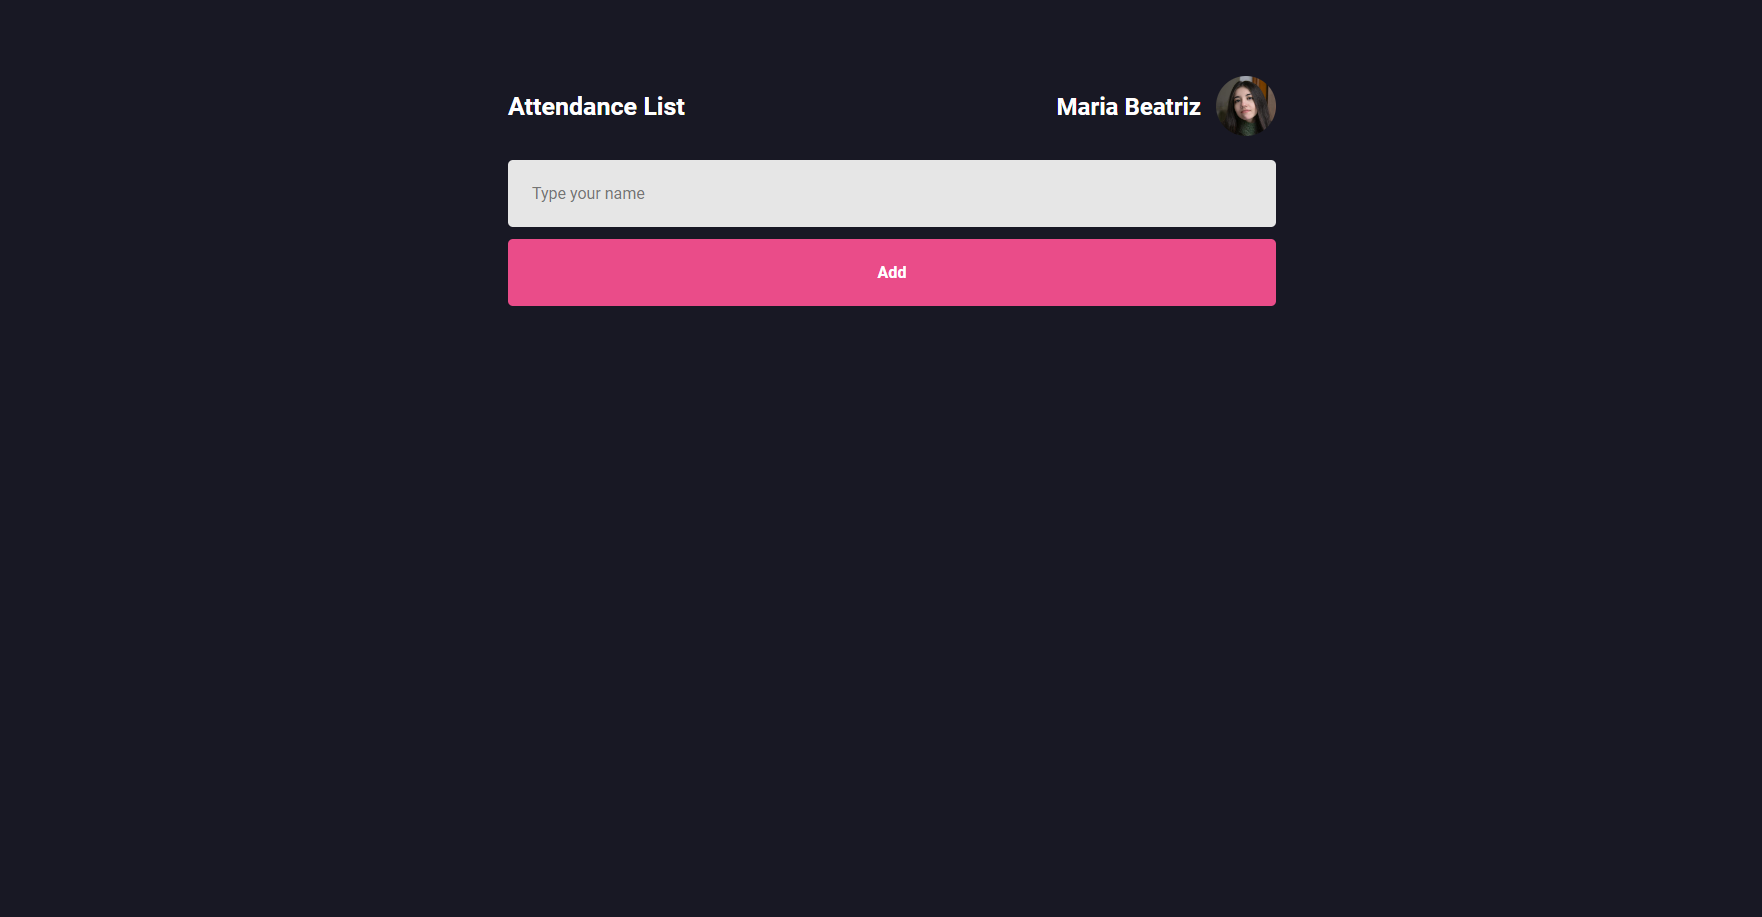
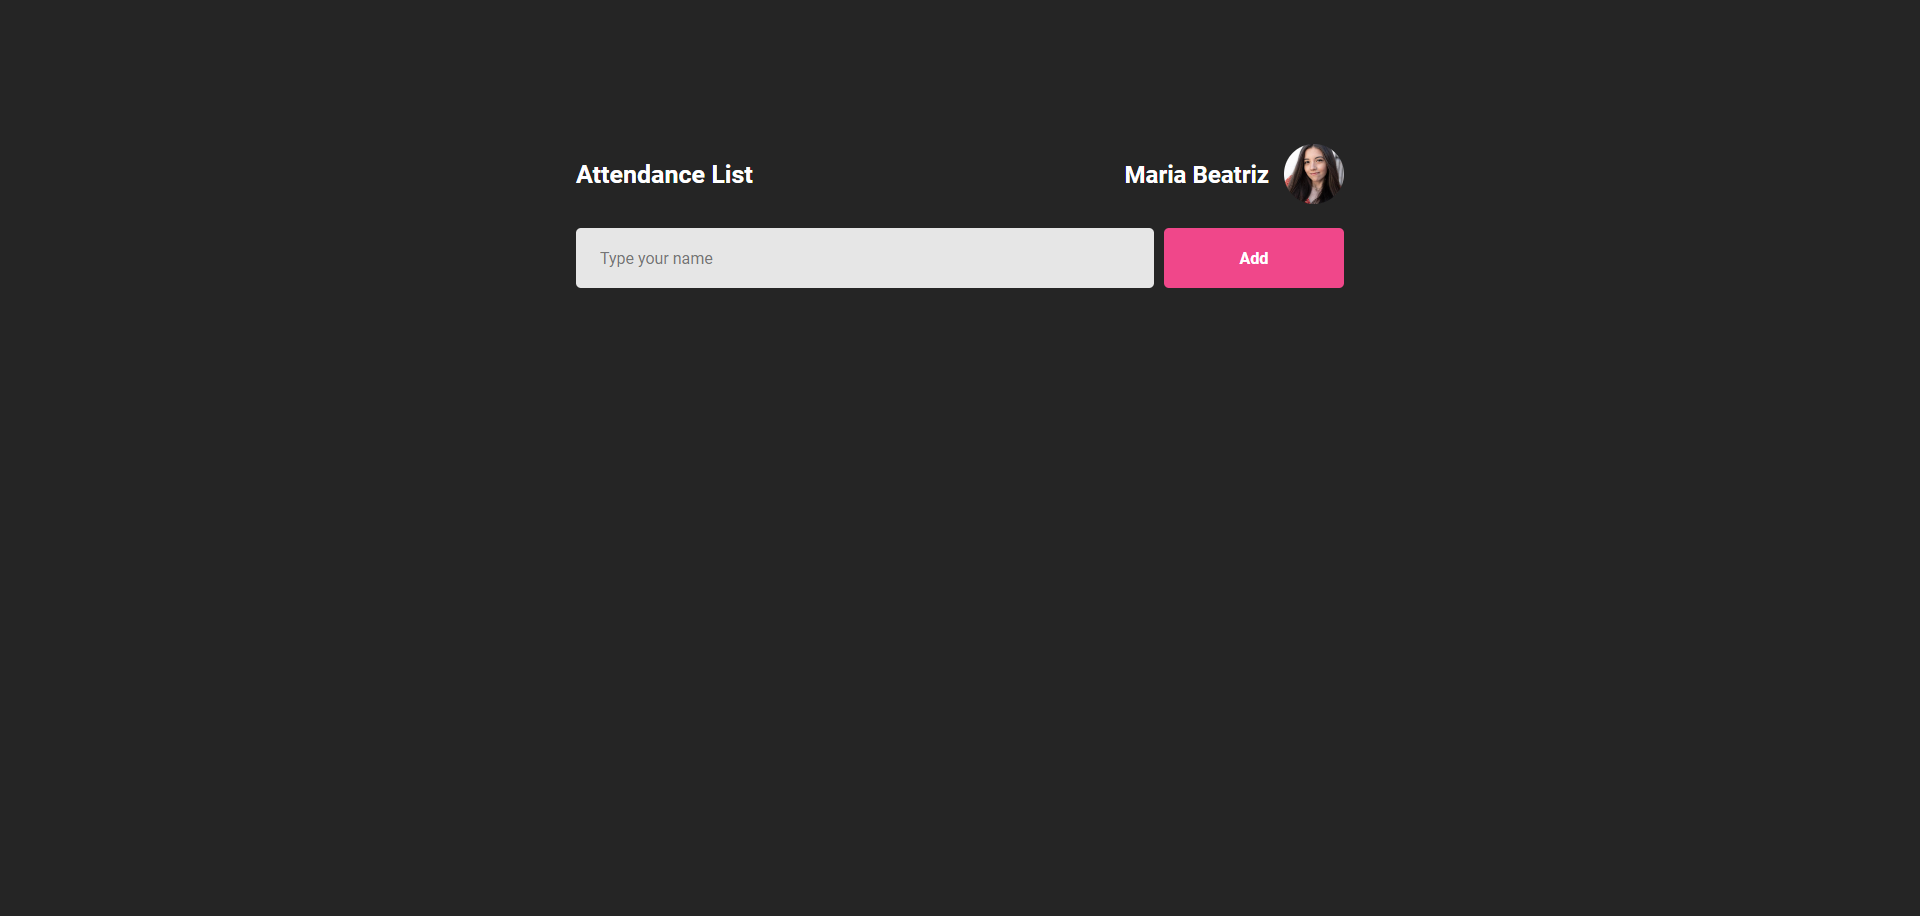
update image

Changed region(s): [[0.2809, 0.0611, 0.7491, 0.3362], [0.2809, 0.0917, 0.4058, 0.1223]]

diff --git a/src/pages/styles.css b/src/pages/styles.css
@@ -45,7 +45,7 @@ header strong {
 
 .container button {
   width: 30%;
-  padding: 24px;
+  padding: 20px;
   font-weight: 700;
   background: #ea4c89;
   color: #ffffff;
